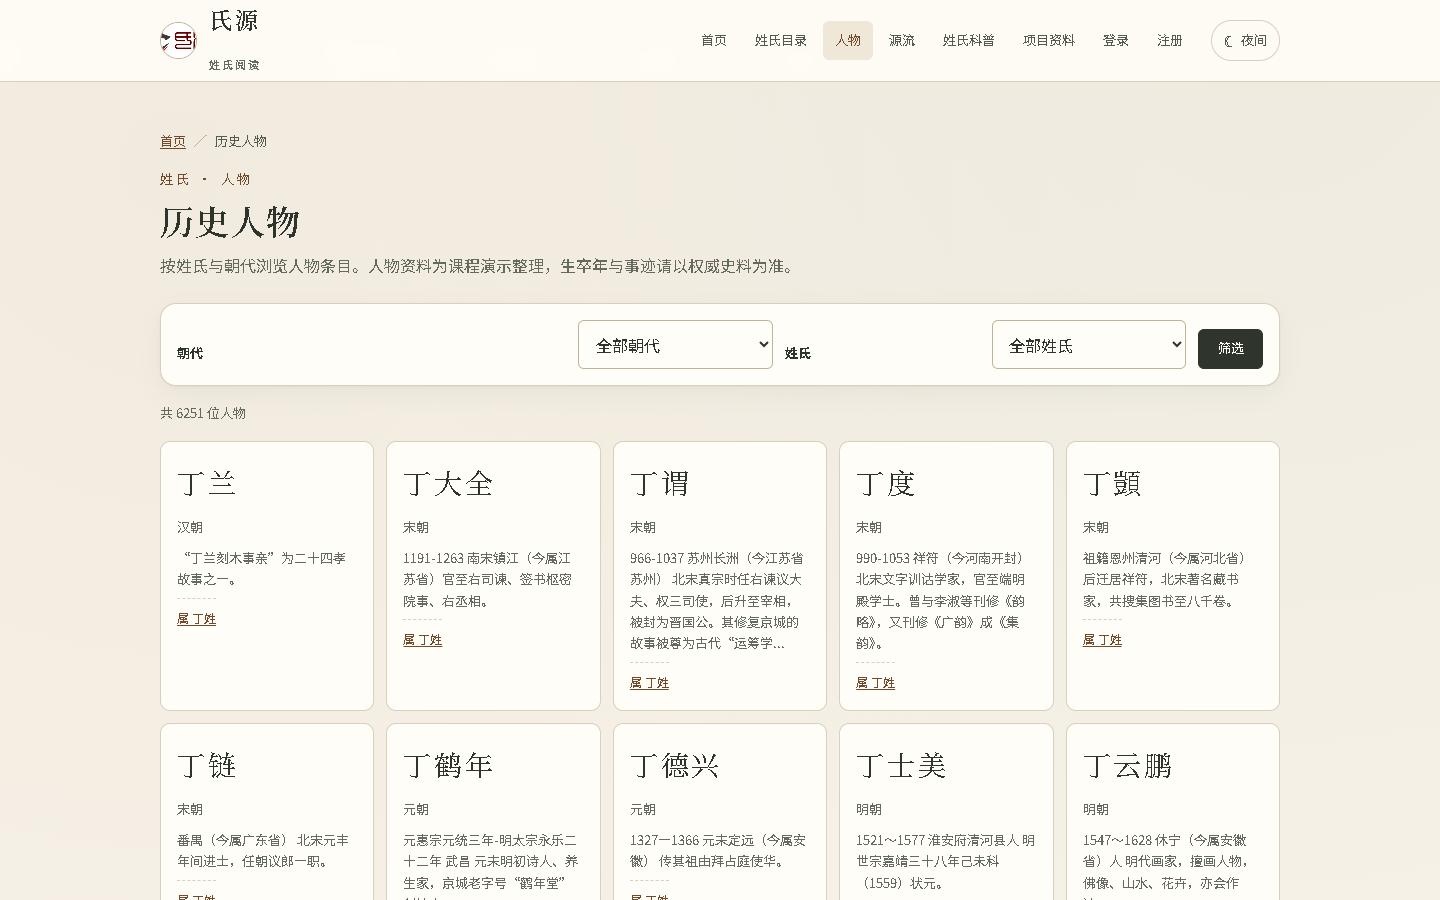
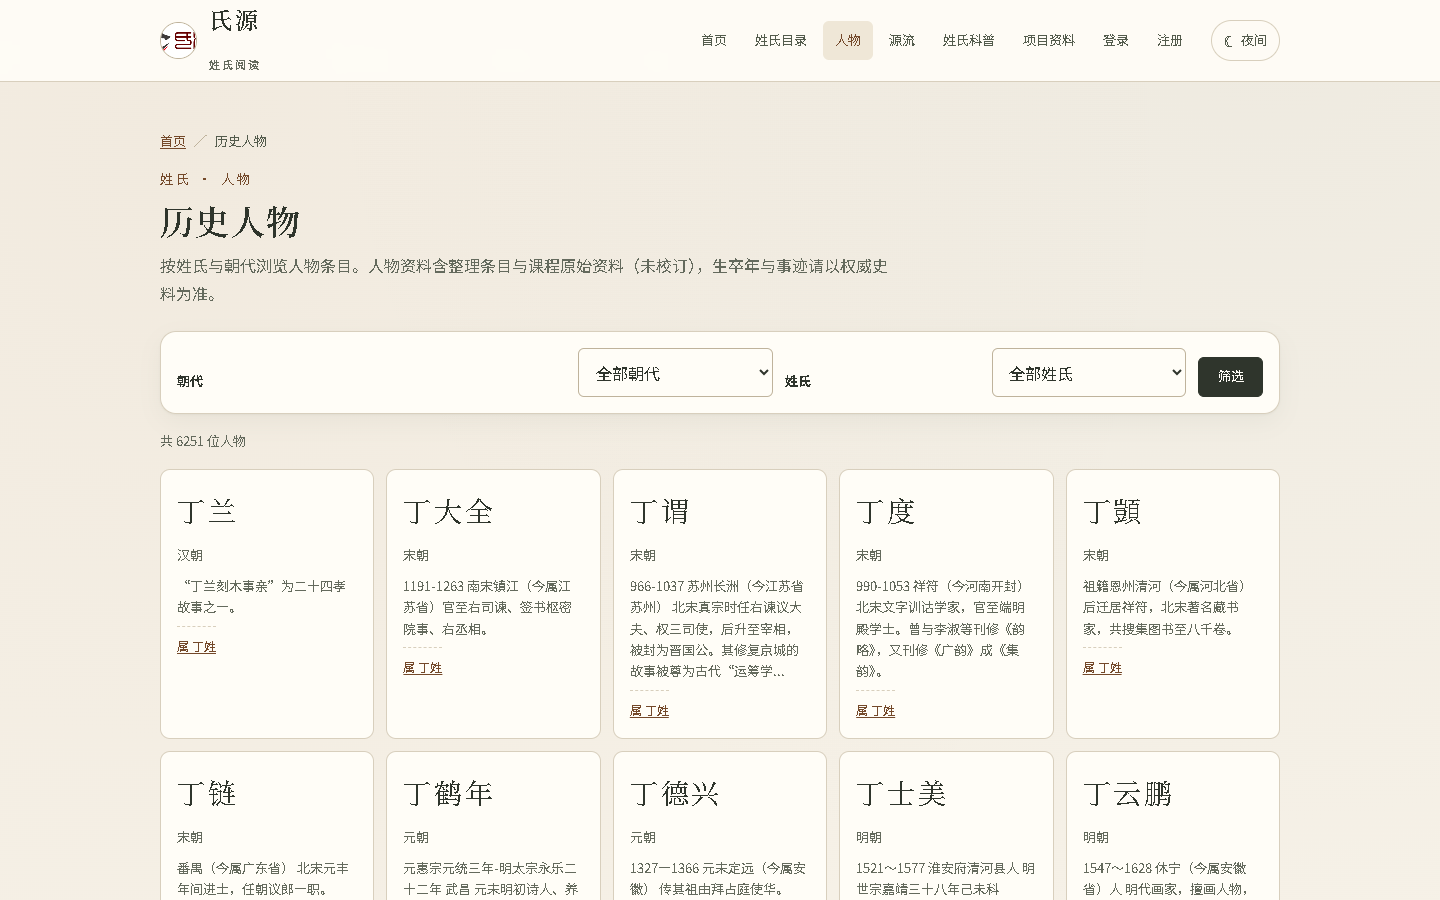
Distinguish imported figures from curated demo data

diff --git a/Surname/templates/surname/figure_detail.html b/Surname/templates/surname/figure_detail.html
@@ -44,7 +44,9 @@
             <tr><th scope="row">生卒</th><td>{{ figure.birth_year|default:"?" }}—{{ figure.death_year|default:"?" }}</td></tr>
         </tbody>
     </table>
-    {% if figure.is_demo %}
+    {% if figure.is_imported_source %}
+        <p class="muted">课程原始资料 · 未校订，以原文为准。</p>
+    {% elif figure.is_demo %}
         <p class="muted">演示数据 · 内容为课程展示整理，非权威传记。</p>
     {% endif %}
     {% if figure.source_note %}<p class="muted">{{ figure.source_note }}</p>{% endif %}

diff --git a/Surname/templates/surname/figures.html b/Surname/templates/surname/figures.html
@@ -12,7 +12,7 @@
 <header class="page-header">
     <p class="eyebrow">姓氏 · 人物</p>
     <h1>历史人物</h1>
-    <p class="lede">按姓氏与朝代浏览人物条目。人物资料为课程演示整理，生卒年与事迹请以权威史料为准。</p>
+    <p class="lede">按姓氏与朝代浏览人物条目。人物资料含整理条目与课程原始资料（未校订），生卒年与事迹请以权威史料为准。</p>
 </header>
 
 <form class="filter-form" method="get" action="{% url 'Surname:figures' %}">

diff --git a/Surname/tests/test_figures.py b/Surname/tests/test_figures.py
@@ -80,6 +80,10 @@ class FigureListTests(TestCase):
         self.assertEqual(len(response.context["page_obj"].object_list), 24)
         self.assertTrue(response.context["page_obj"].has_next())
 
+    def test_list_acknowledges_raw_materials(self):
+        response = self.client.get(self.url)
+        self.assertContains(response, "课程原始资料")
+
 
 class FigureDetailTests(TestCase):
     def setUp(self):
@@ -129,6 +133,25 @@ class FigureDetailTests(TestCase):
             response = self.client.get(self.url)
         self.assertEqual(response.status_code, 200)
         self.assertLessEqual(len(queries), 4)
+
+    def test_imported_figure_shows_raw_source_badge(self):
+        Famous.objects.create(
+            surname=self.li,
+            dynasty=self.tang,
+            name="李冰",
+            slug="li-bing",
+            info="战国水利家。",
+            source_note="课程原始资料《历代名人.txt》（未校订）。",
+        )
+        response = self.client.get(
+            reverse("Surname:figure_detail", args=["li-bing"])
+        )
+        self.assertContains(response, "课程原始资料 · 未校订")
+        self.assertNotContains(response, "演示数据 · 内容为课程展示整理")
+
+    def test_curated_figure_shows_demo_badge(self):
+        response = self.client.get(self.url)
+        self.assertContains(response, "演示数据 · 内容为课程展示整理")
 
 
 class FigureNavTests(TestCase):

diff --git a/Surname/models.py b/Surname/models.py
@@ -147,6 +147,9 @@ class Distribution(models.Model):
         return f"{self.surname} · {self.province}"
 
 
+IMPORTED_SOURCE_MARKER = "课程原始资料"
+
+
 class Famous(models.Model):
     surname = models.ForeignKey(
         SecondName, on_delete=models.CASCADE, related_name="figures"
@@ -180,6 +183,10 @@ class Famous(models.Model):
 
     def __str__(self):
         return self.name
+
+    @property
+    def is_imported_source(self) -> bool:
+        return (self.source_note or "").startswith(IMPORTED_SOURCE_MARKER)
 
     def save(self, *args, **kwargs):
         if not self.slug:

diff --git a/docs/PROJECT_REPORT.md b/docs/PROJECT_REPORT.md
@@ -106,7 +106,7 @@ flowchart LR
 
 ## 8. 测试与验收
 
-- 219 个 Django 测试：模型约束、catalog 加载/校验、课程归档解析与 348/6,251 数据契约、搜索分页、详情预算、图表 payload、认证/CSRF/IDOR、XSS、收藏/历史、API envelope、SEO、部署检查、反向代理与审计日志配置；
+- 222 个 Django 测试：模型约束、catalog 加载/校验、课程归档解析与 348/6,251 数据契约、搜索分页、详情预算、图表 payload、认证/CSRF/IDOR、XSS、收藏/历史、API envelope、SEO、部署检查、反向代理与审计日志配置；
 - `ruff check .` 静态检查；
 - Lighthouse Accessibility 5 页 1.00；375/768/1440 px 无横向溢出；图表在夜间模式正确重绘；
 - GitHub Actions 跑 `check`、`test`、`ruff` 与生产 `collectstatic`；

diff --git a/README.md b/README.md
@@ -139,7 +139,7 @@ ruff check .
 DJANGO_DEBUG=1 python manage.py check
 ```
 
-- 219 个 Django 测试，覆盖模型约束、目录加载/校验、课程归档解析、搜索分页、认证与 CSRF/IDOR、评论 XSS、收藏/历史、API、SEO 与部署配置；
+- 222 个 Django 测试，覆盖模型约束、目录加载/校验、课程归档解析、搜索分页、认证与 CSRF/IDOR、评论 XSS、收藏/历史、API、SEO 与部署配置；
 - 查询预算：首页 6 条、目录 ≤ 5 条、详情 ≤ 16 条、人物列表 ≤ 5 条；
 - Lighthouse 无障碍 1.00（5 个页面），375/768/1440 px 无横向溢出；
 - GitHub Actions 执行 `check`、`test`、`ruff` 与生产模式 `collectstatic`。

diff --git a/PROJECT_STATE.md b/PROJECT_STATE.md
@@ -20,7 +20,7 @@
 
 ## 当前验证结果
 
-- 自动化测试：219 个，全部通过（最终验收命令见下）；
+- 自动化测试：222 个，全部通过（最终验收命令见下）；
 - `ruff check .`：通过；
 - `python manage.py check --deploy`（生产环境变量 + `DJANGO_SECURE_SSL=1`）：无问题；
 - `collectstatic --noinput`（生产 manifest storage）：通过；
